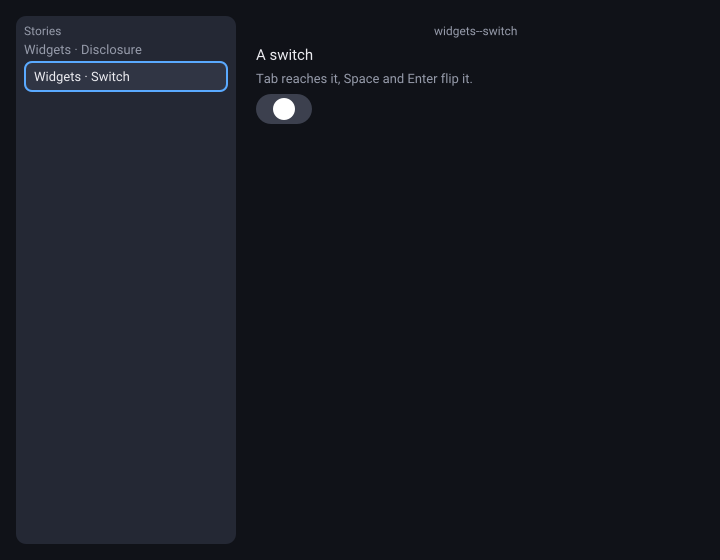
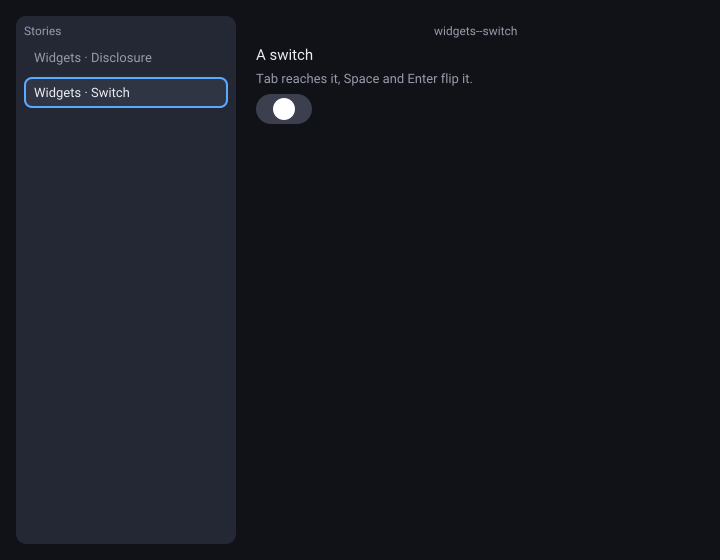
feat(native): the storybook rail is a tablist
The rail was one headless button per story: every story was its own Tab
stop, the arrows did nothing and Enter repeated a click. It is now one
vertical tablist of the native headless tabs (the part the Widgets page
and the web site's switcher use): one Tab stop entered on the picked
story, Up/Down move the roving focus and select with automatic
activation, and the story drawn in the canvas is tabs.selected().

The canvas is the story's own box, not a panel, so every panel is
declared focusable: Tab goes on from the rail to the story's first
control instead of an invisible panel. --story ID is defaultSelected.

The three stored frames are re-taken (at rest, the switch picked by
ArrowDown, the disclosure opened by Tab,Tab,Space) and solid/test.sh
states the new keys.

Changed region(s): [[0.0306, 0.0607, 0.3361, 0.2125]]

diff --git a/native/solid/app/Storybook.tsx b/native/solid/app/Storybook.tsx
@@ -1,15 +1,14 @@
-// The storybook page: a rail of the stories `@cssints/stories` reads and the picked one in the canvas. The rail is the
-// native headless button, one per story, registered in the focus manager in document order, so Tab walks the stories and
-// Enter picks one — the same parts the Widgets page drives, and the same loader the web site reads.
+// The storybook page: a rail of the stories `@cssints/stories` reads and the picked one in the canvas. The rail is a
+// vertical tablist (the native headless tabs, the Widgets page's part): one Tab stop, Up and Down move the roving focus
+// and (automatic activation) pick the story the canvas draws — the same loader the web site reads.
 //
 //   bun solid/main.ts storybook                 a window, the first story picked
 //   bun solid/main.ts storybook --story widgets--switch  one story, for a frame or a stored golden
 import * as css from "cssints/clay" with { type: "cssints" };
-import { For, createSignal } from "solid-js";
 
 import { entries } from "../../../packages/stories/src/index.ts";
 
-import { createButton } from "../../headless/src/index.ts";
+import { createTabs } from "../../headless/src/index.ts";
 import { a11y } from "../a11y.ts";
 import { pageEntry, type Motion } from "../src/entry.ts";
 import type { Input } from "../src/input.ts";
@@ -99,32 +98,32 @@ export function Storybook(props: { input: Input; motion?: Motion; start?: string
     0,
     stories.findIndex((story) => story.id === props.start),
   );
-  const [index, setIndex] = createSignal(open);
-  const picked = () => stories[index()] ?? stories[0];
-
-  // one headless button per story, in document order: Tab walks them, Enter picks
-  const rows = stories.map((story, at) => {
-    const button = createButton({ id: `story-${story.id}`, onClick: () => setIndex(at) });
-    return { story, button, bind: props.input.add(button.part) };
+  // the rail is one tablist: the tabs register in the page's focus manager themselves (`focus`), so the rail is one Tab
+  // stop, entered on the selected row. The canvas is the picked story's box rather than a panel, so every panel is
+  // declared focusable: Tab goes on from the rail to the story's own first control, not to an invisible panel.
+  const tabs = createTabs({
+    id: "stories",
+    items: stories.length,
+    orientation: "vertical",
+    activation: "automatic",
+    defaultSelected: open,
+    focusablePanels: stories.map((_story, at) => at),
+    focus: props.input.focus,
   });
+  const bind = stories.map((_story, at) => props.input.bind(tabs.tabs[at]!));
+  const picked = () => stories[tabs.selected()] ?? stories[0]!;
 
   return (
     <box id="Storybook" style={root}>
-      <box style={rail}>
+      <box {...a11y(tabs.tablist)} style={rail}>
         <text style={caption}>Stories</text>
-        <For each={rows}>
-          {(row) => (
-            <box
-              {...row.bind}
-              {...a11y(row.button.part)}
-              style={row.story.id === picked().id ? rowOn : row}
-            >
-              <text style={row.story.id === picked().id ? labelOn : label}>
-                {`${row.story.title} · ${row.story.name}`}
-              </text>
-            </box>
-          )}
-        </For>
+        {stories.map((story, at) => (
+          <box {...bind[at]!} {...a11y(tabs.tabs[at]!)} style={story.id === picked().id ? rowOn : row}>
+            <text style={story.id === picked().id ? labelOn : label}>
+              {`${story.title} · ${story.name}`}
+            </text>
+          </box>
+        ))}
       </box>
       <box style={canvas}>
         <text style={caption}>{picked().id}</text>
